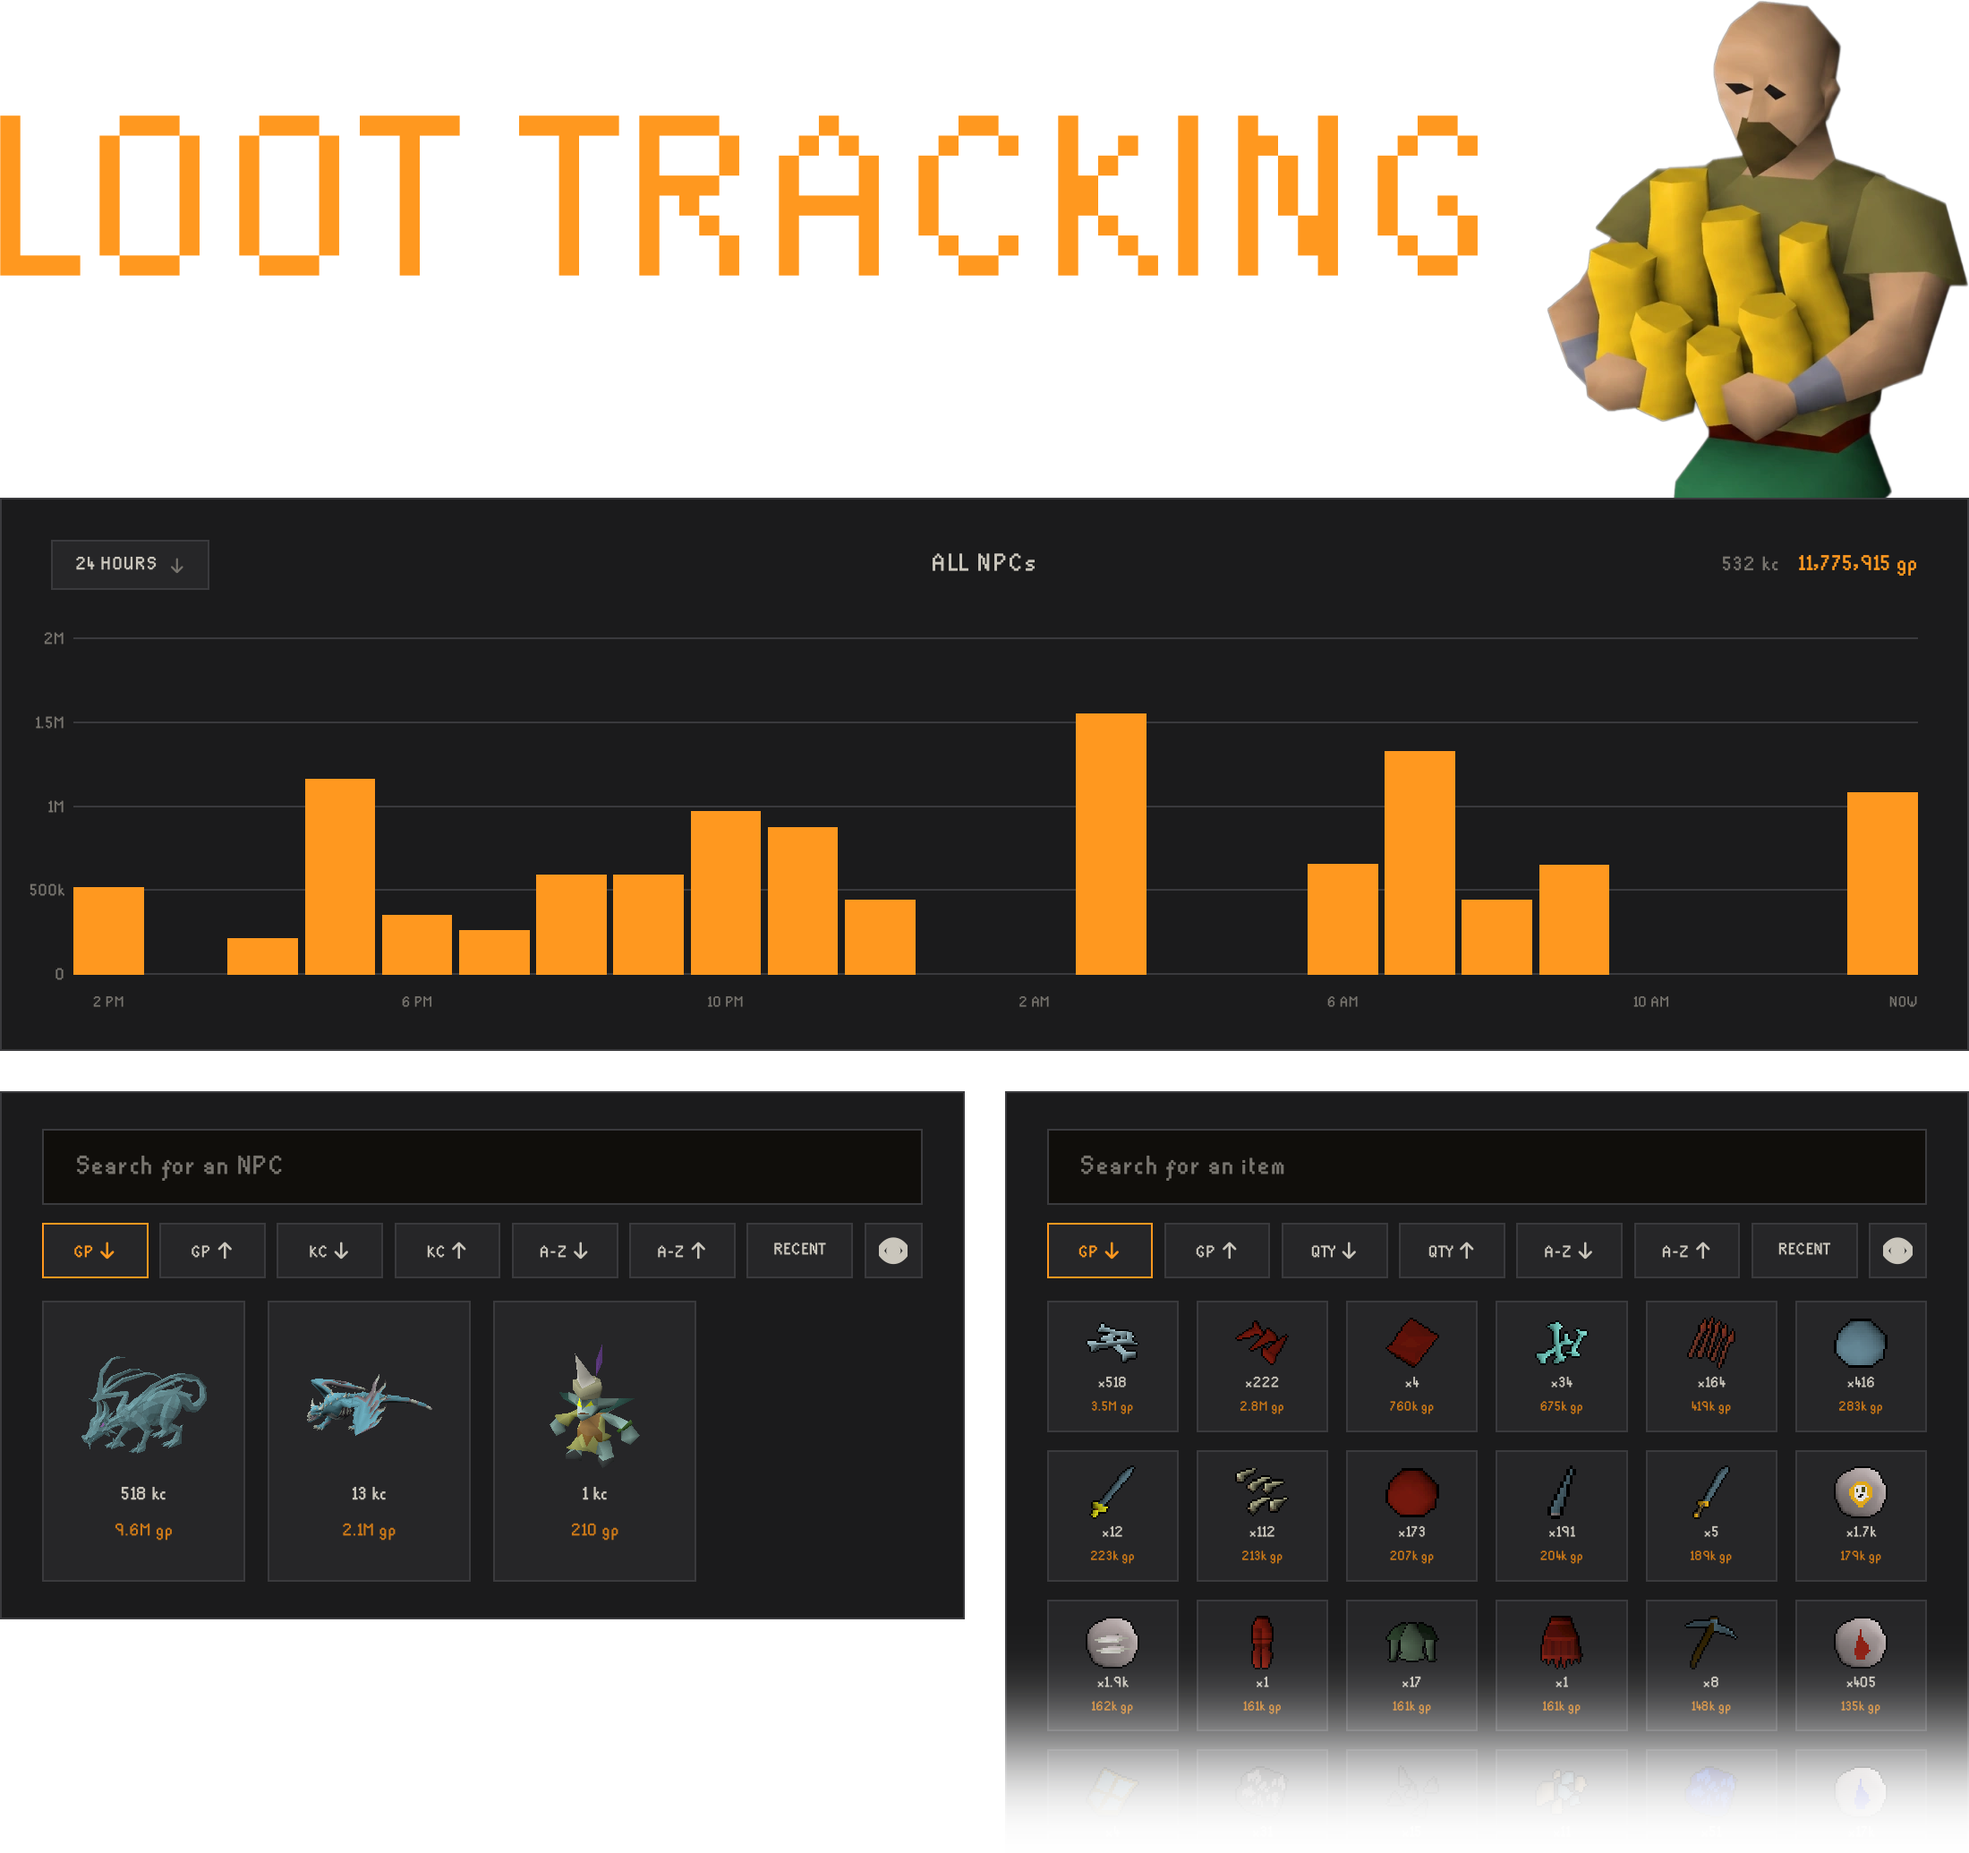
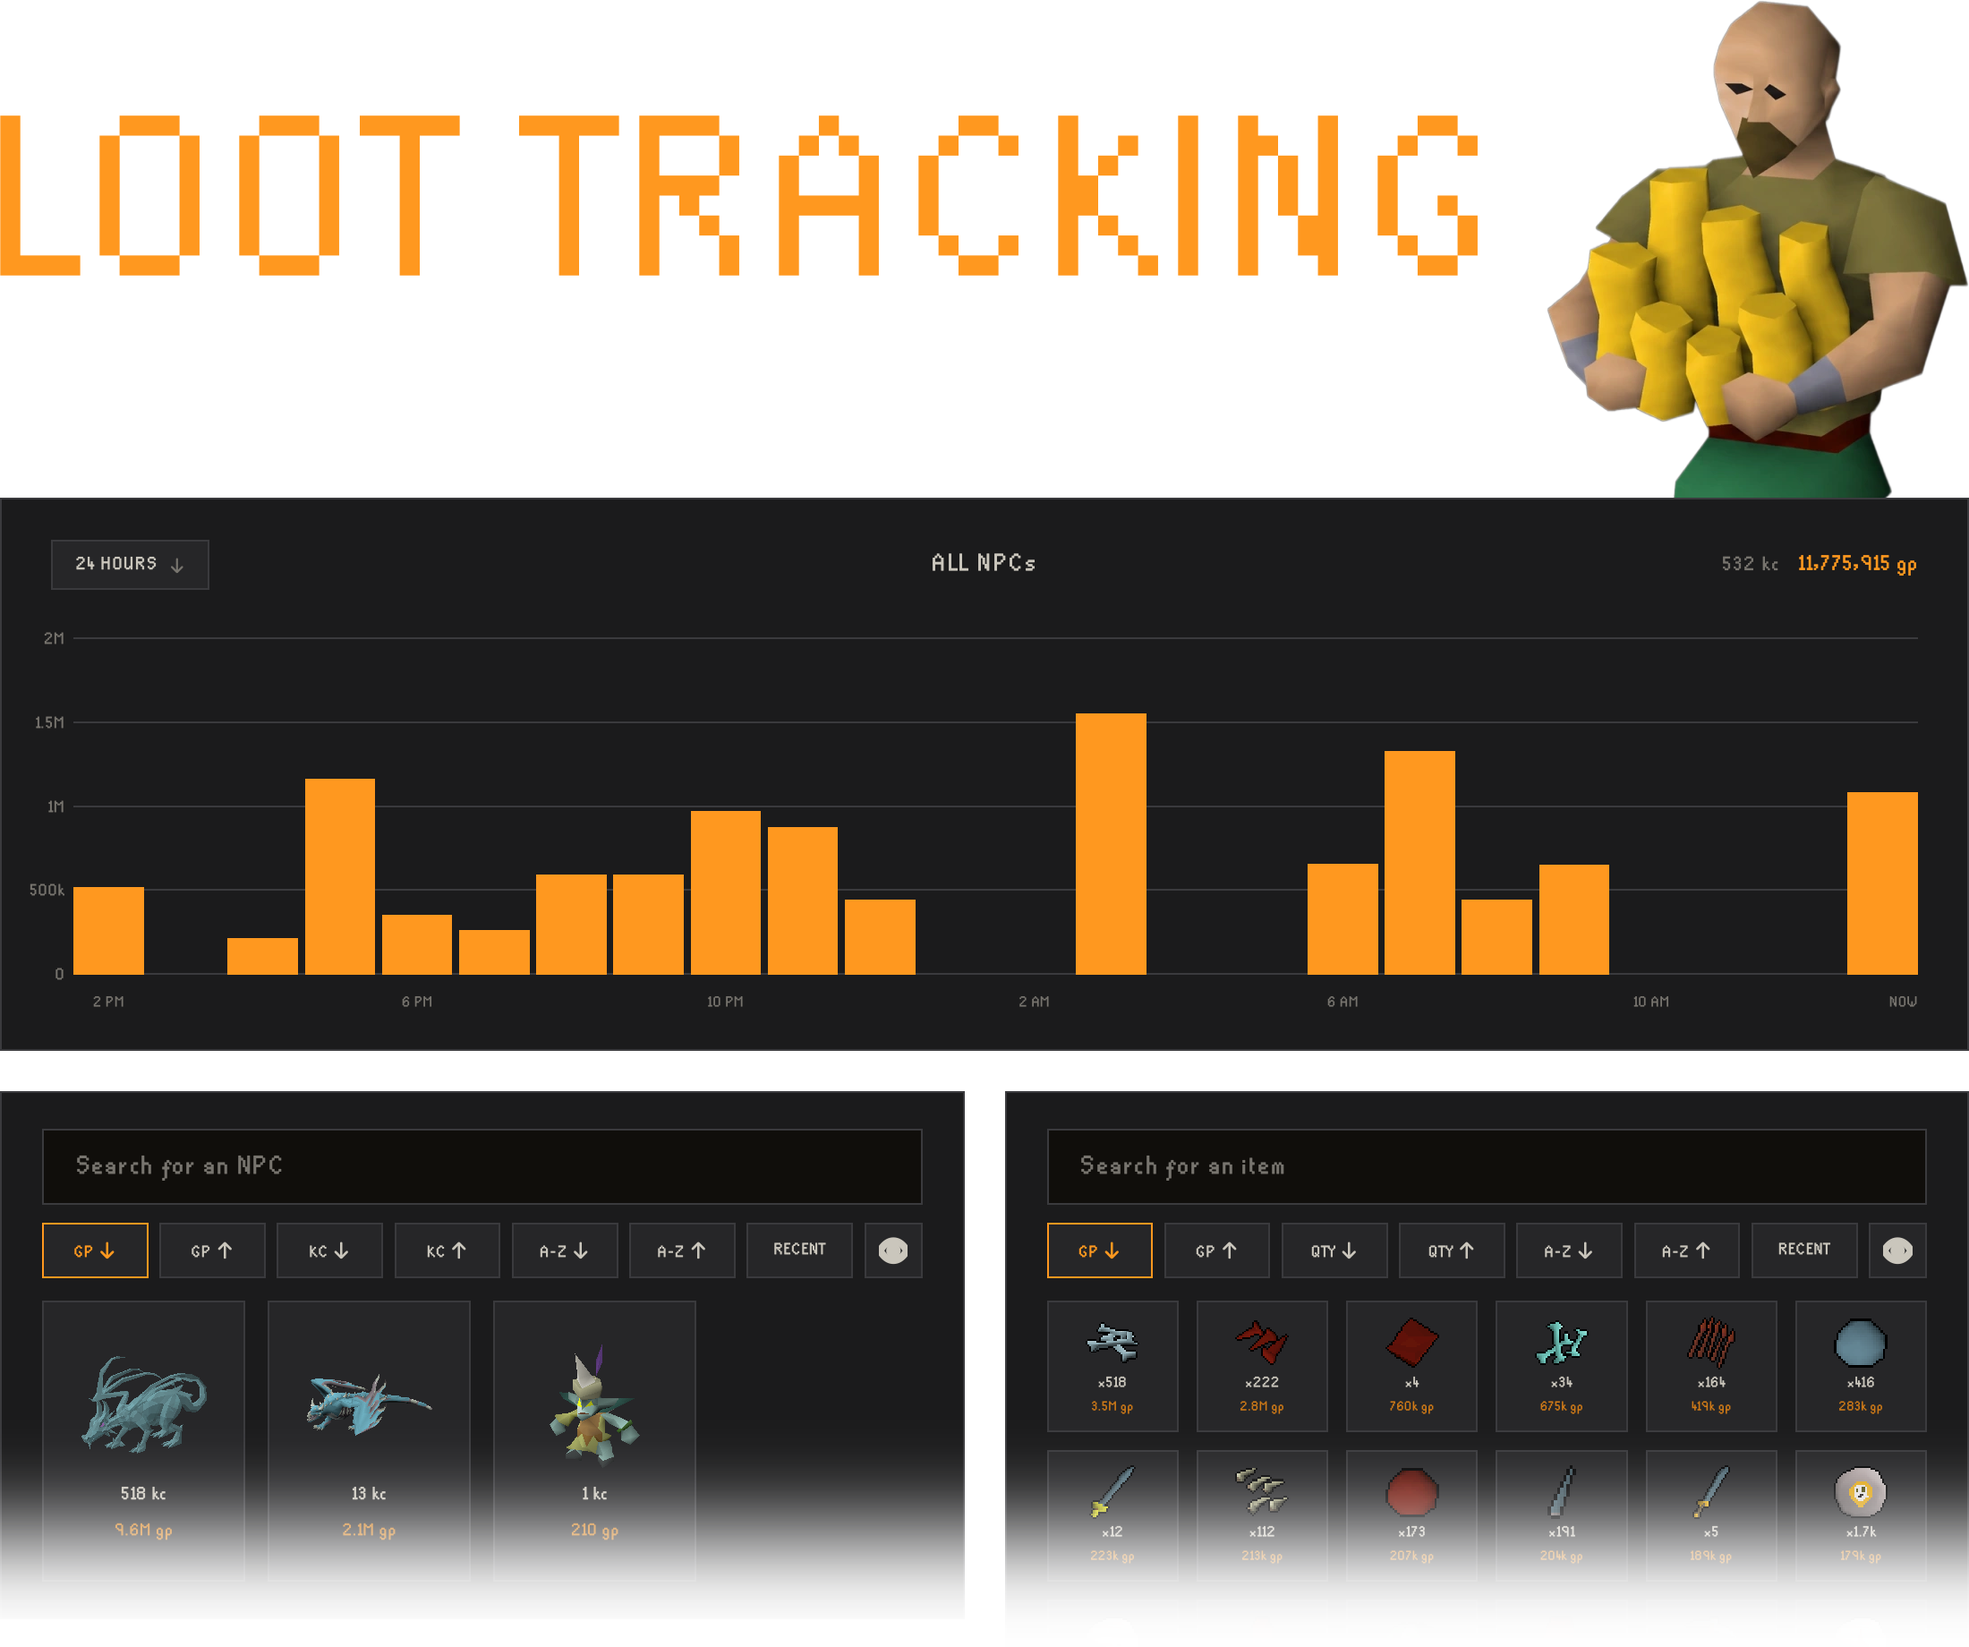
Re-crop three landing images and add a fifth anchor panel
Loot tracking, mindmaps, and storage viewing get fresh crops of the
same art (unchanged copy/composition, just framed differently).
Also adds a new landing-anchor panel for the purchase planner,
right after storage viewing -- same pre-composited-art pattern as
the others, and picked up automatically by the wheel-lock script's
existing querySelectorAll('.landing-anchor') stop list.

diff --git a/app/pages.py b/app/pages.py
@@ -416,6 +416,12 @@ def render_landing(player: Optional[Player]) -> str:
           <img src="/static/img/anchor-storages.png" alt="Storage viewing -- see everything you own, in one place.">
         </picture>
       </section>
+      <section class="landing-anchor">
+        <picture>
+          <source srcset="/static/img/anchor-purchase-planner.webp" type="image/webp">
+          <img src="/static/img/anchor-purchase-planner.png" alt="Purchase planner -- plan and track your next big buys.">
+        </picture>
+      </section>
     </div>
     """
     # CSS scroll-snap (myscape.css) is the baseline -- it's what
